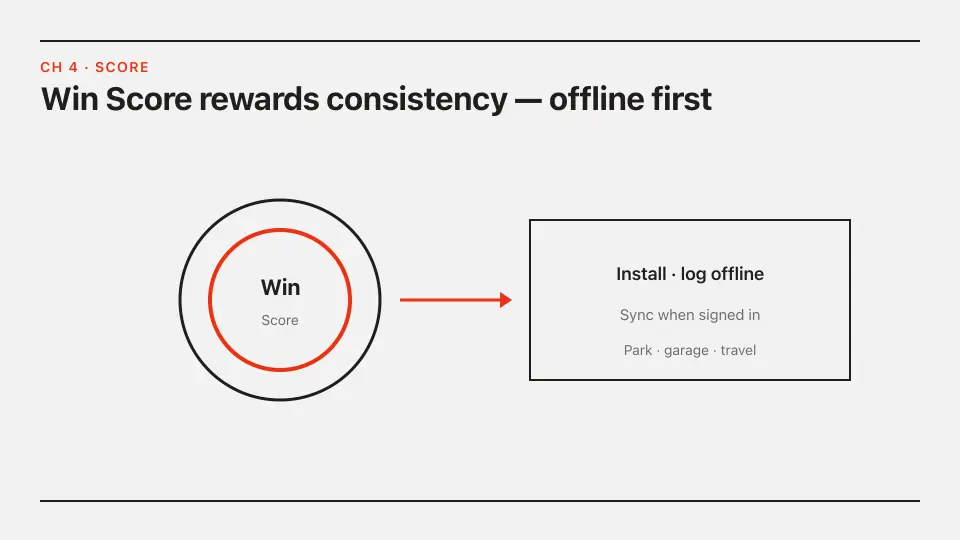
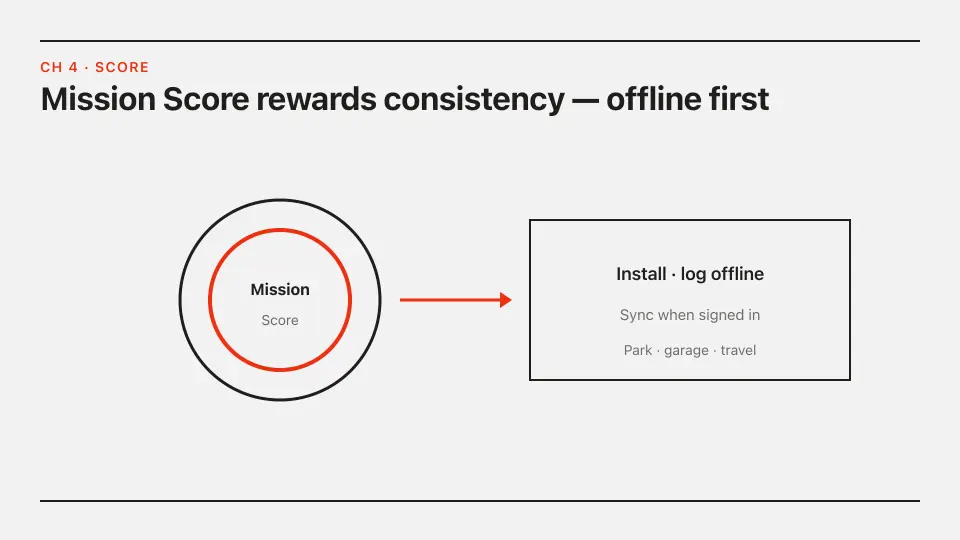
Guidebook heroes already paper; leftover glyphs (.789) [skip vercel]
H0-6 palette was already .268. Remint Win Score painted into two
figures. Do not update visual snapshots.

Excellence-Override: guidebook hero leftover Mission Score glyphs

Changed region(s): [[0.0312, 0.1481, 0.8125, 0.2074], [0.25, 0.5037, 0.3125, 0.563]]

diff --git a/src/lib/buildInfo.ts b/src/lib/buildInfo.ts
@@ -1,5 +1,5 @@
-/** Shown on Profile so testers can confirm the deployed build. Bump when shipping UI to master. `.788` Mission Score copy. */
-export const APP_BUILD_LABEL = "2026.07-unified.788";
+/** Shown on Profile so testers can confirm the deployed build. Bump when shipping UI to master. `.789` guidebook heroes. */
+export const APP_BUILD_LABEL = "2026.07-unified.789";
 
 /**
  * Semver for athletes. Distinct from `APP_BUILD_LABEL`, which `/api/health`

diff --git a/src/lib/missionScoreCopy.test.ts b/src/lib/missionScoreCopy.test.ts
@@ -48,6 +48,7 @@ test('athlete copy does not say Win Score', () => {
       if (rel.endsWith('.test.ts') || rel.endsWith('.routetest.ts')) return false;
       return /\.(ts|tsx|js|mjs)$/.test(rel);
     }),
+    ...leftover('scripts', (rel) => /generate-.*\.mjs$/.test(rel)),
     ...leftover('public/locales', (rel) => rel.endsWith('.json')),
   ];
   assert.deepEqual(

diff --git a/LOG.md b/LOG.md
@@ -9,7 +9,22 @@ Chronological record of shipped work. Newest first.
 Archive: [2026-06 → 2026-07-20](docs/archive/log/LOG-2026-06_to_2026-07-20.md) · [2026-07-20 tail](docs/archive/log/LOG-2026-07-20_tail.md) (incl. Accelerator sprint kit rotated 2026-07-22) · [2026-07-20 → 2026-07-29 (`.179` and earlier)](docs/archive/log/LOG-2026-07-20_to_2026-07-29.md) · [2026-07-29 → 2026-07-30 (`.180`–`.199`)](docs/archive/log/LOG-2026-07-29_to_2026-07-30.md) (both rotated 2026-07-30) · [2026-07-30 → 2026-07-31 (`.200`–`.213`)](docs/archive/log/LOG-2026-07-30_to_2026-07-31.md) (rotated 2026-08-02) · [`.247` for `.263`](docs/archive/log/LOG-hero-audit-rotate-2026-08-03.md) · [`.279`](docs/archive/log/LOG-rotate-279.md) · [`.280`](docs/archive/log/LOG-rotate-280.md) · [`.281` for `.296`](docs/archive/log/LOG-rotate-296.md) · [`.282` for `.297`](docs/archive/log/LOG-rotate-297.md) · [`.283` for `.298`](docs/archive/log/LOG-rotate-298.md) · [`.284` for `.299`](docs/archive/log/LOG-rotate-299.md) · [`.285` for `.300`](docs/archive/log/LOG-rotate-300.md) · [`.286` for `.301`](docs/archive/log/LOG-rotate-301.md) · [`.287` for `.302`](docs/archive/log/LOG-rotate-302.md) · [`.288` for `.303`](docs/archive/log/LOG-rotate-303.md) · [`.289` for `.304`](docs/archive/log/LOG-rotate-304.md) · [`.290` for `.305`](docs/archive/log/LOG-rotate-305.md) · [`.291` for `.306`](docs/archive/log/LOG-rotate-306.md) · [`.292` for `.307`](docs/archive/log/LOG-rotate-307.md) · [`.293` for `.308`](docs/archive/log/LOG-rotate-308.md) · [`.294` for `.309`](docs/archive/log/LOG-rotate-309.md) · [`.295` for `.310`](docs/archive/log/LOG-rotate-310.md) · [`.296` for `.311`](docs/archive/log/LOG-rotate-311.md) · [`.297` for `.312`](docs/archive/log/LOG-rotate-312.md) · [`.298` for `.313`](docs/archive/log/LOG-rotate-313.md) · [`.299` for `.314`](docs/archive/log/LOG-rotate-314.md) · [`.300` for `.315`](docs/archive/log/LOG-rotate-315.md). · [`.301` for `.316`](docs/archive/log/LOG-rotate-316.md). · [`.302` for `.317`](docs/archive/log/LOG-rotate-317.md). · [`.303` for `.318`](docs/archive/log/LOG-rotate-318.md). · [`.304` for `.319`](docs/archive/log/LOG-rotate-319.md). · [`.305` for `.320`](docs/archive/log/LOG-rotate-320.md). · [`.306` for `.321`](docs/archive/log/LOG-rotate-321.md). · [`.307` for `.322`](docs/archive/log/LOG-rotate-322.md). · [`.308` for `.323`](docs/archive/log/LOG-rotate-323.md). · [`.309` for `.324`](docs/archive/log/LOG-rotate-324.md). · [`.310` for `.325`](docs/archive/log/LOG-rotate-325.md). · [`.311` for `.326`](docs/archive/log/LOG-rotate-326.md). · [`.312` for `.327`](docs/archive/log/LOG-rotate-327.md). · [`.313` for `.328`](docs/archive/log/LOG-rotate-328.md). · [`.314` for `.329`](docs/archive/log/LOG-rotate-329.md). · [`.315` for `.330`](docs/archive/log/LOG-rotate-330.md). · [`.316` for `.331`](docs/archive/log/LOG-rotate-331.md). · [`.317` for `.332`](docs/archive/log/LOG-rotate-332.md). · [`.318` for `.333`](docs/archive/log/LOG-rotate-333.md). · [`.319` for `.334`](docs/archive/log/LOG-rotate-334.md). · [`.320` for `.335`](docs/archive/log/LOG-rotate-335.md). · [`.321` for `.336`](docs/archive/log/LOG-rotate-336.md). · [`.322` for `.337`](docs/archive/log/LOG-rotate-337.md). · [`.323` for `.338`](docs/archive/log/LOG-rotate-338.md). · [`.324` for `.339`](docs/archive/log/LOG-rotate-339.md). · [`.325` for `.340`](docs/archive/log/LOG-rotate-340.md). · [`.326` for `.341`](docs/archive/log/LOG-rotate-341.md). · [`.327` for `.342`](docs/archive/log/LOG-rotate-342.md). · [`.328` for `.343`](docs/archive/log/LOG-rotate-343.md). · [`.329` for `.344`](docs/archive/log/LOG-rotate-344.md). · [`.330` for `.345`](docs/archive/log/LOG-rotate-345.md). · [`.331` for `.346`](docs/archive/log/LOG-rotate-346.md). · [`.332` for `.347`](docs/archive/log/LOG-rotate-347.md). · [`.333` for `.348`](docs/archive/log/LOG-rotate-348.md). · [`.334` for `.349`](docs/archive/log/LOG-rotate-349.md). · [`.335` for `.350`](docs/archive/log/LOG-rotate-350.md). · [`.336` for `.351`](docs/archive/log/LOG-rotate-351.md). · [`.337` for `.352`](docs/archive/log/LOG-rotate-352.md). · [`.338` for `.353`](docs/archive/log/LOG-rotate-353.md). · [`.339` for `.354`](docs/archive/log/LOG-rotate-354.md). · [`.340` for `.355`](docs/archive/log/LOG-rotate-355.md). · [`.341` for `.356`](docs/archive/log/LOG-rotate-356.md). · [`.342` for `.357`](docs/archive/log/LOG-rotate-357.md). · [`.343` for `.358`](docs/archive/log/LOG-rotate-358.md). · [`.344` for `.359`](docs/archive/log/LOG-rotate-359.md). · [`.345` for `.360`](docs/archive/log/LOG-rotate-360.md). · [`.346` for `.361`](docs/archive/log/LOG-rotate-361.md). · [`.347` for `.362`](docs/archive/log/LOG-rotate-362.md). · [`.348` for `.363`](docs/archive/log/LOG-rotate-363.md). · [`.349` for `.364`](docs/archive/log/LOG-rotate-364.md). · [`.350` for `.365`](docs/archive/log/LOG-rotate-365.md). · [`.351` for `.366`](docs/archive/log/LOG-rotate-366.md). · [`.352` for `.367`](docs/archive/log/LOG-rotate-367.md). · [`.353` for `.368`](docs/archive/log/LOG-rotate-368.md). · [`.354` for `.369`](docs/archive/log/LOG-rotate-369.md). · [`.355` for `.370`](docs/archive/log/LOG-rotate-370.md). · [`.356` for `.371`](docs/archive/log/LOG-rotate-371.md). · [`.357` for `.372`](docs/archive/log/LOG-rotate-372.md). · [`.358` for `.373`](docs/archive/log/LOG-rotate-373.md). · [`.359` for `.374`](docs/archive/log/LOG-rotate-374.md). · [`.360` for `.375`](docs/archive/log/LOG-rotate-375.md). · [`.361` for `.376`](docs/archive/log/LOG-rotate-376.md). · [`.362` for `.377`](docs/archive/log/LOG-rotate-377.md). · [`.363` for `.378`](docs/archive/log/LOG-rotate-378.md). · [`.364` for `.379`](docs/archive/log/LOG-rotate-379.md). · [`.365` for `.380`](docs/archive/log/LOG-rotate-380.md). · [`.366` for `.381`](docs/archive/log/LOG-rotate-381.md). · [`.367` for `.382`](docs/archive/log/LOG-rotate-382.md). · [`.368` for `.383`](docs/archive/log/LOG-rotate-383.md). · [`.369` for `.384`](docs/archive/log/LOG-rotate-384.md). · [`.370` for `.385`](docs/archive/log/LOG-rotate-385.md). · [`.371` for `.386`](docs/archive/log/LOG-rotate-386.md). · [`.372` for `.387`](docs/archive/log/LOG-rotate-387.md). · [`.373` for `.388`](docs/archive/log/LOG-rotate-388.md). · [`.374` for `.389`](docs/archive/log/LOG-rotate-389.md). · [`.375` for `.390`](docs/archive/log/LOG-rotate-390.md). · [`.376` for `.391`](docs/archive/log/LOG-rotate-391.md). · [`.377` for `.392`](docs/archive/log/LOG-rotate-392.md). · [`.378` for `.393`](docs/archive/log/LOG-rotate-393.md). · [`.379` for `.394`](docs/archive/log/LOG-rotate-394.md). · [`.380` for `.395`](docs/archive/log/LOG-rotate-395.md). · [`.381` for `.396`](docs/archive/log/LOG-rotate-396.md). · [`.382` for `.397`](docs/archive/log/LOG-rotate-397.md). · [`.383` for `.398`](docs/archive/log/LOG-rotate-398.md). · [`.384` for `.399`](docs/archive/log/LOG-rotate-399.md). · [`.385` for `.400`](docs/archive/log/LOG-rotate-400.md). · [`.386` for `.401`](docs/archive/log/LOG-rotate-401.md). · [`.387` for `.402`](docs/archive/log/LOG-rotate-402.md). · [`.388` for `.403`](docs/archive/log/LOG-rotate-403.md). · [`.389` for `.404`](docs/archive/log/LOG-rotate-404.md). · [`.390` for `.405`](docs/archive/log/LOG-rotate-405.md). · [`.391` for `.406`](docs/archive/log/LOG-rotate-406.md). · [`.392` for `.407`](docs/archive/log/LOG-rotate-407.md). · [`.393` for `.408`](docs/archive/log/LOG-rotate-408.md). · [`.394` for `.409`](docs/archive/log/LOG-rotate-409.md). · [`.395` for `.410`](docs/archive/log/LOG-rotate-410.md). · [`.396` for `.411`](docs/archive/log/LOG-rotate-411.md). · [`.397` for `.412`](docs/archive/log/LOG-rotate-412.md). · [`.398` for `.413`](docs/archive/log/LOG-rotate-413.md). · [`.399` for `.414`](docs/archive/log/LOG-rotate-414.md). · [`.400` for `.415`](docs/archive/log/LOG-rotate-415.md). · [`.401` for `.416`](docs/archive/log/LOG-rotate-416.md). · [`.402` for `.417`](docs/archive/log/LOG-rotate-417.md). · [`.403` for `.418`](docs/archive/log/LOG-rotate-418.md). · [`.404` for `.419`](docs/archive/log/LOG-rotate-419.md). · [`.405` for `.420`](docs/archive/log/LOG-rotate-420.md). · [`.406` for `.421`](docs/archive/log/LOG-rotate-421.md). · [`.407` for `.422`](docs/archive/log/LOG-rotate-422.md). · [`.408` for `.423`](docs/archive/log/LOG-rotate-423.md). · [`.409` for `.424`](docs/archive/log/LOG-rotate-424.md). · [`.410` for `.425`](docs/archive/log/LOG-rotate-425.md). · [`.411` for `.426`](docs/archive/log/LOG-rotate-426.md). · [`.412` for `.427`](docs/archive/log/LOG-rotate-427.md). · [`.413` for `.428`](docs/archive/log/LOG-rotate-428.md). · [`.414` for `.429`](docs/archive/log/LOG-rotate-429.md). · [`.415` for `.430`](docs/archive/log/LOG-rotate-430.md). · [`.416` for `.431`](docs/archive/log/LOG-rotate-431.md). · [`.417` for `.432`](docs/archive/log/LOG-rotate-432.md). · [`.418` for `.433`](docs/archive/log/LOG-rotate-433.md). · [`.419` for `.434`](docs/archive/log/LOG-rotate-434.md). · [`.420` for `.435`](docs/archive/log/LOG-rotate-435.md). · [`.421` for `.436`](docs/archive/log/LOG-rotate-436.md). · [`.422` for `.437`](docs/archive/log/LOG-rotate-437.md). · [`.423` for `.438`](docs/archive/log/LOG-rotate-438.md). · [`.424` for `.439`](docs/archive/log/LOG-rotate-439.md). · [`.425` for `.440`](docs/archive/log/LOG-rotate-440.md). · [`.426` for `.441`](docs/archive/log/LOG-rotate-441.md). · [`.427` for `.442`](docs/archive/log/LOG-rotate-442.md). · [`.428` for `.443`](docs/archive/log/LOG-rotate-443.md). · [`.429` for `.444`](docs/archive/log/LOG-rotate-444.md). · [`.430` for `.445`](docs/archive/log/LOG-rotate-445.md). · [`.431` for `.446`](docs/archive/log/LOG-rotate-446.md). · [`.432` for `.447`](docs/archive/log/LOG-rotate-447.md). · [`.433` for `.448`](docs/archive/log/LOG-rotate-448.md). · [`.434` for `.449`](docs/archive/log/LOG-rotate-449.md). · [`.435` for `.450`](docs/archive/log/LOG-rotate-450.md). · [`.436` for `.451`](docs/archive/log/LOG-rotate-451.md). · [`.437` for `.452`](docs/archive/log/LOG-rotate-452.md). · [`.438` for `.453`](docs/archive/log/LOG-rotate-453.md). · [`.439` for `.454`](docs/archive/log/LOG-rotate-454.md). · [`.440` for `.455`](docs/archive/log/LOG-rotate-455.md). · [`.441` for `.456`](docs/archive/log/LOG-rotate-456.md). · [`.442` for `.457`](docs/archive/log/LOG-rotate-457.md). · [`.443` for `.458`](docs/archive/log/LOG-rotate-458.md). · [`.444` for `.459`](docs/archive/log/LOG-rotate-459.md). · [`.445` for `.460`](docs/archive/log/LOG-rotate-460.md). · [`.446` for `.461`](docs/archive/log/LOG-rotate-461.md). · [`.447` for `.462`](docs/archive/log/LOG-rotate-462.md). · [`.448` for `.463`](docs/archive/log/LOG-rotate-463.md). · [`.449` for `.464`](docs/archive/log/LOG-rotate-464.md). · [`.450` for `.465`](docs/archive/log/LOG-rotate-465.md). · [`.451` for `.466`](docs/archive/log/LOG-rotate-466.md). · [`.452` for `.467`](docs/archive/log/LOG-rotate-467.md). · [`.453` for `.468`](docs/archive/log/LOG-rotate-468.md). · [`.454` for `.469`](docs/archive/log/LOG-rotate-469.md). · [`.455` for `.470`](docs/archive/log/LOG-rotate-470.md). · [`.456` for `.471`](docs/archive/log/LOG-rotate-471.md). · [`.457` for `.472`](docs/archive/log/LOG-rotate-472.md). · [`.458` for `.473`](docs/archive/log/LOG-rotate-473.md). · [`.459` for `.474`](docs/archive/log/LOG-rotate-474.md). · [`.460` for `.475`](docs/archive/log/LOG-rotate-475.md). · [`.461` for `.476`](docs/archive/log/LOG-rotate-476.md). · [`.462` for `.477`](docs/archive/log/LOG-rotate-477.md). · [`.463` for `.478`](docs/archive/log/LOG-rotate-478.md). · [`.464` for `.479`](docs/archive/log/LOG-rotate-479.md). · [`.465` for `.480`](docs/archive/log/LOG-rotate-480.md). · [`.466` for `.481`](docs/archive/log/LOG-rotate-481.md). · [`.467` for `.482`](docs/archive/log/LOG-rotate-482.md). · [`.468` for `.483`](docs/archive/log/LOG-rotate-483.md). · [`.469` for `.484`](docs/archive/log/LOG-rotate-484.md). · [`.470` for `.485`](docs/archive/log/LOG-rotate-485.md). · [`.471` for `.486`](docs/archive/log/LOG-rotate-486.md). · [`.472` for `.487`](docs/archive/log/LOG-rotate-487.md). · [`.473` for `.488`](docs/archive/log/LOG-rotate-488.md). · [`.474` for `.489`](docs/archive/log/LOG-rotate-489.md). · [`.475` for `.490`](docs/archive/log/LOG-rotate-490.md). · [`.476` for `.491`](docs/archive/log/LOG-rotate-491.md). · [`.477` for `.492`](docs/archive/log/LOG-rotate-492.md). · [`.478` for `.493`](docs/archive/log/LOG-rotate-493.md). · [`.479` for `.494`](docs/archive/log/LOG-rotate-494.md). · [`.480` for `.495`](docs/archive/log/LOG-rotate-495.md). · [`.481` for `.496`](docs/archive/log/LOG-rotate-496.md). · [`.482` for `.497`](docs/archive/log/LOG-rotate-497.md). · [`.483` for `.498`](docs/archive/log/LOG-rotate-498.md). · [`.484` for `.499`](docs/archive/log/LOG-rotate-499.md). · [`.485` for `.500`](docs/archive/log/LOG-rotate-500.md). · [`.486` for `.501`](docs/archive/log/LOG-rotate-501.md). · [`.487` for `.502`](docs/archive/log/LOG-rotate-502.md). · [`.488` for `.503`](docs/archive/log/LOG-rotate-503.md). · [`.490` for `.505`](docs/archive/log/LOG-rotate-505.md). · [`.491` for `.506`](docs/archive/log/LOG-rotate-506.md). · [`.579` for `.594`](docs/archive/log/LOG-rotate-594.md). · [`.580` for `.595`](docs/archive/log/LOG-rotate-595.md).
 
 
---- · [`.492` for `.507`](docs/archive/log/LOG-rotate-507.md). · [`.493` for `.508`](docs/archive/log/LOG-rotate-508.md). · [`.494` for `.509`](docs/archive/log/LOG-rotate-509.md). · [`.495` for `.510`](docs/archive/log/LOG-rotate-510.md). · [`.496` for `.511`](docs/archive/log/LOG-rotate-511.md). · [`.497` for `.512`](docs/archive/log/LOG-rotate-512.md). · [`.498` for `.513`](docs/archive/log/LOG-rotate-513.md). · [`.499` for `.514`](docs/archive/log/LOG-rotate-514.md). · [`.500` for `.515`](docs/archive/log/LOG-rotate-515.md). · [`.501` for `.516`](docs/archive/log/LOG-rotate-516.md). · [`.502` for `.517`](docs/archive/log/LOG-rotate-517.md). · [`.503` for `.518`](docs/archive/log/LOG-rotate-518.md). · [`.504` for `.519`](docs/archive/log/LOG-rotate-519.md). · [`.505` for `.520`](docs/archive/log/LOG-rotate-520.md). · [`.506` for `.521`](docs/archive/log/LOG-rotate-521.md). · [`.507` for `.522`](docs/archive/log/LOG-rotate-522.md). · [`.508` for `.523`](docs/archive/log/LOG-rotate-523.md). · [`.509` for `.524`](docs/archive/log/LOG-rotate-524.md). · [`.510` for `.525`](docs/archive/log/LOG-rotate-525.md). · [`.511` for `.526`](docs/archive/log/LOG-rotate-526.md). · [`.512` for `.527`](docs/archive/log/LOG-rotate-527.md). · [`.513` for `.528`](docs/archive/log/LOG-rotate-528.md). · [`.514` for `.529`](docs/archive/log/LOG-rotate-529.md). · [`.515` for `.530`](docs/archive/log/LOG-rotate-530.md). · [`.516` for `.531`](docs/archive/log/LOG-rotate-531.md). · [`.517` for `.532`](docs/archive/log/LOG-rotate-532.md). · [`.518` for `.533`](docs/archive/log/LOG-rotate-533.md). · [`.519` for `.534`](docs/archive/log/LOG-rotate-534.md). · [`.520` for `.535`](docs/archive/log/LOG-rotate-535.md). · [`.521` for `.536`](docs/archive/log/LOG-rotate-536.md). · [`.522` for `.537`](docs/archive/log/LOG-rotate-537.md). · [`.523` for `.538`](docs/archive/log/LOG-rotate-538.md). · [`.524` for `.539`](docs/archive/log/LOG-rotate-539.md). · [`.525` for `.540`](docs/archive/log/LOG-rotate-540.md). · [`.526` for `.541`](docs/archive/log/LOG-rotate-541.md). · [`.527` for `.542`](docs/archive/log/LOG-rotate-542.md). · [`.528` for `.543`](docs/archive/log/LOG-rotate-543.md). · [`.529` for `.544`](docs/archive/log/LOG-rotate-544.md). · [`.530` for `.545`](docs/archive/log/LOG-rotate-545.md). · [`.531` for `.546`](docs/archive/log/LOG-rotate-546.md). · [`.532` for `.547`](docs/archive/log/LOG-rotate-547.md). · [`.533` for `.548`](docs/archive/log/LOG-rotate-548.md). · [`.534` for `.549`](docs/archive/log/LOG-rotate-549.md). · [`.535` for `.550`](docs/archive/log/LOG-rotate-550.md). · [`.536` for `.551`](docs/archive/log/LOG-rotate-551.md). · [`.537` for `.552`](docs/archive/log/LOG-rotate-552.md). · [`.538` for `.553`](docs/archive/log/LOG-rotate-553.md). · [`.539` for `.554`](docs/archive/log/LOG-rotate-554.md). · [`.540` for `.555`](docs/archive/log/LOG-rotate-555.md). · [`.541` for `.556`](docs/archive/log/LOG-rotate-556.md). · [`.542` for `.557`](docs/archive/log/LOG-rotate-557.md). · [`.543` for `.558`](docs/archive/log/LOG-rotate-558.md). · [`.544` for `.559`](docs/archive/log/LOG-rotate-559.md). · [`.545` for `.560`](docs/archive/log/LOG-rotate-560.md). · [`.546` for `.561`](docs/archive/log/LOG-rotate-561.md). · [`.547` for `.562`](docs/archive/log/LOG-rotate-562.md). · [`.548` for `.563`](docs/archive/log/LOG-rotate-563.md). · [`.549` for `.564`](docs/archive/log/LOG-rotate-564.md). · [`.550` for `.565`](docs/archive/log/LOG-rotate-565.md). · [`.551` for `.566`](docs/archive/log/LOG-rotate-566.md). · [`.552` for `.567`](docs/archive/log/LOG-rotate-567.md). · [`.553` for `.568`](docs/archive/log/LOG-rotate-568.md). · [`.554` for `.569`](docs/archive/log/LOG-rotate-569.md). · [`.555` for `.570`](docs/archive/log/LOG-rotate-570.md). · [`.556` for `.571`](docs/archive/log/LOG-rotate-571.md). · [`.557` for `.572`](docs/archive/log/LOG-rotate-572.md). · [`.558` for `.573`](docs/archive/log/LOG-rotate-573.md). · [`.559` for `.574`](docs/archive/log/LOG-rotate-574.md). · [`.560` for `.575`](docs/archive/log/LOG-rotate-575.md). · [`.561` for `.576`](docs/archive/log/LOG-rotate-576.md). · [`.562` for `.577`](docs/archive/log/LOG-rotate-577.md). · [`.563` for `.578`](docs/archive/log/LOG-rotate-578.md). · [`.564` for `.579`](docs/archive/log/LOG-rotate-579.md). · [`.565` for `.580`](docs/archive/log/LOG-rotate-580.md). · [`.566` for `.581`](docs/archive/log/LOG-rotate-581.md). · [`.567` for `.582`](docs/archive/log/LOG-rotate-582.md). · [`.568` for `.583`](docs/archive/log/LOG-rotate-583.md). · [`.569` for `.584`](docs/archive/log/LOG-rotate-584.md). · [`.570` for `.585`](docs/archive/log/LOG-rotate-585.md). · [`.571` for `.586`](docs/archive/log/LOG-rotate-586.md). · [`.572` for `.587`](docs/archive/log/LOG-rotate-587.md). · [`.573` for `.588`](docs/archive/log/LOG-rotate-588.md). · [`.574` for `.589`](docs/archive/log/LOG-rotate-589.md). · [`.575` for `.590`](docs/archive/log/LOG-rotate-590.md). · [`.576` for `.591`](docs/archive/log/LOG-rotate-591.md). · [`.577` for `.592`](docs/archive/log/LOG-rotate-592.md). · [`.578` for `.593`](docs/archive/log/LOG-rotate-593.md). · [`.581` for `.596`](docs/archive/log/LOG-rotate-596.md). · [`.582` for `.597`](docs/archive/log/LOG-rotate-597.md). · [`.583` for `.598`](docs/archive/log/LOG-rotate-598.md). · [`.584` for `.599`](docs/archive/log/LOG-rotate-599.md). · [`.585` for `.600`](docs/archive/log/LOG-rotate-600.md). · [`.586` for `.601`](docs/archive/log/LOG-rotate-601.md). · [`.587` for `.602`](docs/archive/log/LOG-rotate-602.md). · [`.588` for `.603`](docs/archive/log/LOG-rotate-603.md). · [`.590` for `.606`](docs/archive/log/LOG-rotate-606.md). · [`.596` for `.612`](docs/archive/log/LOG-rotate-612.md). · [`.597` for `.613`](docs/archive/log/LOG-rotate-613.md). · [`.599` for `.614`](docs/archive/log/LOG-rotate-614.md). · [`.600` for `.615`](docs/archive/log/LOG-rotate-615.md). · [`.601` for `.616`](docs/archive/log/LOG-rotate-616.md). · [`.602` for `.617`](docs/archive/log/LOG-rotate-617.md). · [`.603` for `.618`](docs/archive/log/LOG-rotate-618.md). · [`.604` for `.619`](docs/archive/log/LOG-rotate-619.md). · [`.655` for `.670`](docs/archive/log/LOG-rotate-655-for-670.md). · [`.656` for `.679`](docs/archive/log/LOG-rotate-656-for-679.md). · [`.657` for `.680`](docs/archive/log/LOG-rotate-657-for-680.md). · [`.658` for `.684`](docs/archive/log/LOG-rotate-658-for-684.md). · [`.659` for `.685`](docs/archive/log/LOG-rotate-659-for-685.md). · [`.660` for `.689`](docs/archive/log/LOG-rotate-660-for-689.md). · [`.661` for `.690`](docs/archive/log/LOG-rotate-661-for-690.md). · [`.662` for `.691`](docs/archive/log/LOG-rotate-662-for-691.md). · [`.663` for `.692`](docs/archive/log/LOG-rotate-663-for-692.md). · [`.664` for `.693`](docs/archive/log/LOG-rotate-664-for-693.md). · [`.665` for `.694`](docs/archive/log/LOG-rotate-665-for-694.md). · [`.666` for `.695`](docs/archive/log/LOG-rotate-666-for-695.md). · [`.667` for `.696`](docs/archive/log/LOG-rotate-667-for-696.md). · [`.668` for `.697`](docs/archive/log/LOG-rotate-668-for-697.md). · [`.669` for `.714`](docs/archive/log/LOG-rotate-669-for-714.md). · [`.669` for `.743`](docs/archive/log/LOG-rotate-669-for-743.md). · [`.670` for `.743`](docs/archive/log/LOG-rotate-670-for-743.md). · [`.669` for `.744`](docs/archive/log/LOG-rotate-669-for-744.md). · [`.679` for `.744`](docs/archive/log/LOG-rotate-679-for-744.md). · [`.680` for `.745`](docs/archive/log/LOG-rotate-680-for-745.md). · [`.684` for `.746`](docs/archive/log/LOG-rotate-684-for-746.md). · [`.750` for `.765`](docs/archive/log/LOG-rotate-750-for-765.md). · [`.753` for `.768`](docs/archive/log/LOG-rotate-753-for-768.md). · [`.762` for `.777`](docs/archive/log/LOG-rotate-762-for-777.md). · [`.765` for `.780`](docs/archive/log/LOG-rotate-765-for-780.md). · [`.766` for `.781`](docs/archive/log/LOG-rotate-766-for-781.md). · [`.767` for form-object-kit](docs/archive/log/LOG-rotate-767-for-form-object-kit.md). · [`.768` for `.782`](docs/archive/log/LOG-rotate-768-for-782.md). · [`.769` for `.783`](docs/archive/log/LOG-rotate-769-for-783.md). · [`.770` for `.784`](docs/archive/log/LOG-rotate-770-for-784.md). · [`.771` for `.785`](docs/archive/log/LOG-rotate-771-for-785.md). · [`.772` for `.786`](docs/archive/log/LOG-rotate-772-for-786.md). · [`.773` for `.787`](docs/archive/log/LOG-rotate-773-for-787.md). · [`.774` for `.788`](docs/archive/log/LOG-rotate-774-for-788.md).
+--- · [`.492` for `.507`](docs/archive/log/LOG-rotate-507.md). · [`.493` for `.508`](docs/archive/log/LOG-rotate-508.md). · [`.494` for `.509`](docs/archive/log/LOG-rotate-509.md). · [`.495` for `.510`](docs/archive/log/LOG-rotate-510.md). · [`.496` for `.511`](docs/archive/log/LOG-rotate-511.md). · [`.497` for `.512`](docs/archive/log/LOG-rotate-512.md). · [`.498` for `.513`](docs/archive/log/LOG-rotate-513.md). · [`.499` for `.514`](docs/archive/log/LOG-rotate-514.md). · [`.500` for `.515`](docs/archive/log/LOG-rotate-515.md). · [`.501` for `.516`](docs/archive/log/LOG-rotate-516.md). · [`.502` for `.517`](docs/archive/log/LOG-rotate-517.md). · [`.503` for `.518`](docs/archive/log/LOG-rotate-518.md). · [`.504` for `.519`](docs/archive/log/LOG-rotate-519.md). · [`.505` for `.520`](docs/archive/log/LOG-rotate-520.md). · [`.506` for `.521`](docs/archive/log/LOG-rotate-521.md). · [`.507` for `.522`](docs/archive/log/LOG-rotate-522.md). · [`.508` for `.523`](docs/archive/log/LOG-rotate-523.md). · [`.509` for `.524`](docs/archive/log/LOG-rotate-524.md). · [`.510` for `.525`](docs/archive/log/LOG-rotate-525.md). · [`.511` for `.526`](docs/archive/log/LOG-rotate-526.md). · [`.512` for `.527`](docs/archive/log/LOG-rotate-527.md). · [`.513` for `.528`](docs/archive/log/LOG-rotate-528.md). · [`.514` for `.529`](docs/archive/log/LOG-rotate-529.md). · [`.515` for `.530`](docs/archive/log/LOG-rotate-530.md). · [`.516` for `.531`](docs/archive/log/LOG-rotate-531.md). · [`.517` for `.532`](docs/archive/log/LOG-rotate-532.md). · [`.518` for `.533`](docs/archive/log/LOG-rotate-533.md). · [`.519` for `.534`](docs/archive/log/LOG-rotate-534.md). · [`.520` for `.535`](docs/archive/log/LOG-rotate-535.md). · [`.521` for `.536`](docs/archive/log/LOG-rotate-536.md). · [`.522` for `.537`](docs/archive/log/LOG-rotate-537.md). · [`.523` for `.538`](docs/archive/log/LOG-rotate-538.md). · [`.524` for `.539`](docs/archive/log/LOG-rotate-539.md). · [`.525` for `.540`](docs/archive/log/LOG-rotate-540.md). · [`.526` for `.541`](docs/archive/log/LOG-rotate-541.md). · [`.527` for `.542`](docs/archive/log/LOG-rotate-542.md). · [`.528` for `.543`](docs/archive/log/LOG-rotate-543.md). · [`.529` for `.544`](docs/archive/log/LOG-rotate-544.md). · [`.530` for `.545`](docs/archive/log/LOG-rotate-545.md). · [`.531` for `.546`](docs/archive/log/LOG-rotate-546.md). · [`.532` for `.547`](docs/archive/log/LOG-rotate-547.md). · [`.533` for `.548`](docs/archive/log/LOG-rotate-548.md). · [`.534` for `.549`](docs/archive/log/LOG-rotate-549.md). · [`.535` for `.550`](docs/archive/log/LOG-rotate-550.md). · [`.536` for `.551`](docs/archive/log/LOG-rotate-551.md). · [`.537` for `.552`](docs/archive/log/LOG-rotate-552.md). · [`.538` for `.553`](docs/archive/log/LOG-rotate-553.md). · [`.539` for `.554`](docs/archive/log/LOG-rotate-554.md). · [`.540` for `.555`](docs/archive/log/LOG-rotate-555.md). · [`.541` for `.556`](docs/archive/log/LOG-rotate-556.md). · [`.542` for `.557`](docs/archive/log/LOG-rotate-557.md). · [`.543` for `.558`](docs/archive/log/LOG-rotate-558.md). · [`.544` for `.559`](docs/archive/log/LOG-rotate-559.md). · [`.545` for `.560`](docs/archive/log/LOG-rotate-560.md). · [`.546` for `.561`](docs/archive/log/LOG-rotate-561.md). · [`.547` for `.562`](docs/archive/log/LOG-rotate-562.md). · [`.548` for `.563`](docs/archive/log/LOG-rotate-563.md). · [`.549` for `.564`](docs/archive/log/LOG-rotate-564.md). · [`.550` for `.565`](docs/archive/log/LOG-rotate-565.md). · [`.551` for `.566`](docs/archive/log/LOG-rotate-566.md). · [`.552` for `.567`](docs/archive/log/LOG-rotate-567.md). · [`.553` for `.568`](docs/archive/log/LOG-rotate-568.md). · [`.554` for `.569`](docs/archive/log/LOG-rotate-569.md). · [`.555` for `.570`](docs/archive/log/LOG-rotate-570.md). · [`.556` for `.571`](docs/archive/log/LOG-rotate-571.md). · [`.557` for `.572`](docs/archive/log/LOG-rotate-572.md). · [`.558` for `.573`](docs/archive/log/LOG-rotate-573.md). · [`.559` for `.574`](docs/archive/log/LOG-rotate-574.md). · [`.560` for `.575`](docs/archive/log/LOG-rotate-575.md). · [`.561` for `.576`](docs/archive/log/LOG-rotate-576.md). · [`.562` for `.577`](docs/archive/log/LOG-rotate-577.md). · [`.563` for `.578`](docs/archive/log/LOG-rotate-578.md). · [`.564` for `.579`](docs/archive/log/LOG-rotate-579.md). · [`.565` for `.580`](docs/archive/log/LOG-rotate-580.md). · [`.566` for `.581`](docs/archive/log/LOG-rotate-581.md). · [`.567` for `.582`](docs/archive/log/LOG-rotate-582.md). · [`.568` for `.583`](docs/archive/log/LOG-rotate-583.md). · [`.569` for `.584`](docs/archive/log/LOG-rotate-584.md). · [`.570` for `.585`](docs/archive/log/LOG-rotate-585.md). · [`.571` for `.586`](docs/archive/log/LOG-rotate-586.md). · [`.572` for `.587`](docs/archive/log/LOG-rotate-587.md). · [`.573` for `.588`](docs/archive/log/LOG-rotate-588.md). · [`.574` for `.589`](docs/archive/log/LOG-rotate-589.md). · [`.575` for `.590`](docs/archive/log/LOG-rotate-590.md). · [`.576` for `.591`](docs/archive/log/LOG-rotate-591.md). · [`.577` for `.592`](docs/archive/log/LOG-rotate-592.md). · [`.578` for `.593`](docs/archive/log/LOG-rotate-593.md). · [`.581` for `.596`](docs/archive/log/LOG-rotate-596.md). · [`.582` for `.597`](docs/archive/log/LOG-rotate-597.md). · [`.583` for `.598`](docs/archive/log/LOG-rotate-598.md). · [`.584` for `.599`](docs/archive/log/LOG-rotate-599.md). · [`.585` for `.600`](docs/archive/log/LOG-rotate-600.md). · [`.586` for `.601`](docs/archive/log/LOG-rotate-601.md). · [`.587` for `.602`](docs/archive/log/LOG-rotate-602.md). · [`.588` for `.603`](docs/archive/log/LOG-rotate-603.md). · [`.590` for `.606`](docs/archive/log/LOG-rotate-606.md). · [`.596` for `.612`](docs/archive/log/LOG-rotate-612.md). · [`.597` for `.613`](docs/archive/log/LOG-rotate-613.md). · [`.599` for `.614`](docs/archive/log/LOG-rotate-614.md). · [`.600` for `.615`](docs/archive/log/LOG-rotate-615.md). · [`.601` for `.616`](docs/archive/log/LOG-rotate-616.md). · [`.602` for `.617`](docs/archive/log/LOG-rotate-617.md). · [`.603` for `.618`](docs/archive/log/LOG-rotate-618.md). · [`.604` for `.619`](docs/archive/log/LOG-rotate-619.md). · [`.655` for `.670`](docs/archive/log/LOG-rotate-655-for-670.md). · [`.656` for `.679`](docs/archive/log/LOG-rotate-656-for-679.md). · [`.657` for `.680`](docs/archive/log/LOG-rotate-657-for-680.md). · [`.658` for `.684`](docs/archive/log/LOG-rotate-658-for-684.md). · [`.659` for `.685`](docs/archive/log/LOG-rotate-659-for-685.md). · [`.660` for `.689`](docs/archive/log/LOG-rotate-660-for-689.md). · [`.661` for `.690`](docs/archive/log/LOG-rotate-661-for-690.md). · [`.662` for `.691`](docs/archive/log/LOG-rotate-662-for-691.md). · [`.663` for `.692`](docs/archive/log/LOG-rotate-663-for-692.md). · [`.664` for `.693`](docs/archive/log/LOG-rotate-664-for-693.md). · [`.665` for `.694`](docs/archive/log/LOG-rotate-665-for-694.md). · [`.666` for `.695`](docs/archive/log/LOG-rotate-666-for-695.md). · [`.667` for `.696`](docs/archive/log/LOG-rotate-667-for-696.md). · [`.668` for `.697`](docs/archive/log/LOG-rotate-668-for-697.md). · [`.669` for `.714`](docs/archive/log/LOG-rotate-669-for-714.md). · [`.669` for `.743`](docs/archive/log/LOG-rotate-669-for-743.md). · [`.670` for `.743`](docs/archive/log/LOG-rotate-670-for-743.md). · [`.669` for `.744`](docs/archive/log/LOG-rotate-669-for-744.md). · [`.679` for `.744`](docs/archive/log/LOG-rotate-679-for-744.md). · [`.680` for `.745`](docs/archive/log/LOG-rotate-680-for-745.md). · [`.684` for `.746`](docs/archive/log/LOG-rotate-684-for-746.md). · [`.750` for `.765`](docs/archive/log/LOG-rotate-750-for-765.md). · [`.753` for `.768`](docs/archive/log/LOG-rotate-753-for-768.md). · [`.762` for `.777`](docs/archive/log/LOG-rotate-762-for-777.md). · [`.765` for `.780`](docs/archive/log/LOG-rotate-765-for-780.md). · [`.766` for `.781`](docs/archive/log/LOG-rotate-766-for-781.md). · [`.767` for form-object-kit](docs/archive/log/LOG-rotate-767-for-form-object-kit.md). · [`.768` for `.782`](docs/archive/log/LOG-rotate-768-for-782.md). · [`.769` for `.783`](docs/archive/log/LOG-rotate-769-for-783.md). · [`.770` for `.784`](docs/archive/log/LOG-rotate-770-for-784.md). · [`.771` for `.785`](docs/archive/log/LOG-rotate-771-for-785.md). · [`.772` for `.786`](docs/archive/log/LOG-rotate-772-for-786.md). · [`.773` for `.787`](docs/archive/log/LOG-rotate-773-for-787.md). · [`.774` for `.788`](docs/archive/log/LOG-rotate-774-for-788.md). · [`.775` for `.789`](docs/archive/log/LOG-rotate-775-for-789.md).
+
+## 2026-08-14 — Guidebook heroes already paper (`.789`)
+
+H0-6 asked to re-ink navy/teal chapter heroes. `.268` already did.
+Every `public/learn/*.webp` measures 0–1% ink with brand red. The
+remaining defect was leftover “Win Score” painted into two figures.
+
+**Ship:** remint `getting-started-mw-hero` and `win-score-offline`.
+Palette guard unchanged. No `--update-snapshots`. No `PRIVATE_MODE` flip.
+
+Label `.789` (onto master `.788`).
+
+Excellence-Override: guidebook hero leftover Mission Score glyphs
+
+Rotated LOG oldest → [docs/archive/log/LOG-rotate-775-for-789.md](docs/archive/log/LOG-rotate-775-for-789.md).
 
 ## 2026-08-14 — Mission Score leftover copy (`.788`)
 
@@ -273,26 +288,4 @@ Excellence-Override below.
 Excellence-Override: Mission Server durable rooms
 
 Rotated LOG oldest → [docs/archive/log/LOG-rotate-761-for-776.md](docs/archive/log/LOG-rotate-761-for-776.md).
-
-## 2026-08-14 — LLM daily dollar cap + lifetime Grok gate (`.775`)
-
-Request caps (60 chats/day) did not implement “never cost more than they
-paid.” Lifetime is $149 once; Grok is pay-per-token forever. Default 4.6
-reasoning is billed and not capped by `max_tokens`.
-
-**Ship:** `centsFromUsage` (provider ticks, else grok-4.6 list; reasoning =
-output). Per-identity default **15¢/day**, org breaker **$25/day**. Fail-closed
-if the store throws. `allowLlmInference` = request quota then $ cap. Chat,
-insight, voice, debrief, meal vision. Lifetime uses the same cap. Public-flip
-checklist in LAUNCH_RUNBOOK §5.
-
-Mutants: ticks ignored → list-price used; reasoning omitted → undercount; store
-throw → allow (must deny); $ cap 0 with request cap 60 → allow.
-
-Label `.775` (onto master `.774`).
-Excellence-Override below.
-
-Excellence-Override: llm spend cap
-
-Rotated LOG oldest → [docs/archive/log/LOG-rotate-760-for-775.md](docs/archive/log/LOG-rotate-760-for-775.md).
 

diff --git a/docs/GRAPH_LOOP.md b/docs/GRAPH_LOOP.md
@@ -2,7 +2,7 @@
 
 **Audience:** Founder + the next Cursor Cloud / graph agent  
 **Lane:** Engineering-Web (unless a loop says Android)  
-**Status:** ACTIVE 2026-08-14 · web `2026.07-unified.788` · Alpha 0.1.0  
+**Status:** ACTIVE 2026-08-14 · web `2026.07-unified.789` · Alpha 0.1.0  
 **Does not replace:** [ORCHESTRATION.md](../ORCHESTRATION.md) (what may be built) · [CONTEXT.md](../CONTEXT.md) `## Now` (where we are) · [vision.md](../vision.md) (constitution) · [docs/THESIS.md](THESIS.md) (wedge) · [docs/PLAN.md](PLAN.md) (phases A–I)
 
 This file is the **execution queue** for the agent graph: one concern per loop, spawn, ship, mark done, spawn the next. It is not a second status block and not a license to skip standing hard bans.
@@ -45,6 +45,7 @@ Recent turns:
 | **H0-2** | Launch env H0 vs H1 (FREE_BETA) | `.781` this PR — **done** |
 | **H0-3** | API inventory + glob guard | `.787` — **done** |
 | **H0-5** | Win Score → Mission Score leftover copy | `.788` this PR — **done** |
+| **H0-6** | Guidebook chapter heroes | `.268` already paper; leftover glyphs `.789` — **done** |
 
 ---
 
@@ -92,7 +93,7 @@ Verified in source 2026-08-14 (master `.779`). Findings with proof paths: [§ Re
 | **H0-3** | API INDEX + `docs/API.md` + PROGRAM_STATUS census | Docs match reality | `done` — `.787` |
 | **H0-4** | Public-flip checklist: `start_url` curl + SW; runbook pointers | Flip-day smoke | `done` — docs |
 | **H0-5** | “Win Score” → Mission Score leftover strings | Public copy honesty | `done` — `.788` |
-| **H0-6** | Guidebook chapter heroes still navy/emerald | Design honesty before baselines | `open` |
+| **H0-6** | Guidebook chapter heroes still navy/emerald | Design honesty before baselines | `done` — already `.268`; leftover glyphs `.789` |
 | **H0-7** | Production-stack / runbook vs CONTEXT (Upstash, `.104`) | Docs match reality | `open` |
 
 ### After H0 (orientation — not open until H0-1…H0-7 are done or `founder`)
@@ -142,7 +143,7 @@ Do not pull these forward while H0 agent loops remain `open`.
 | W5 | Form Index Wave D — next unique stills | `parked` |
 | W6 | “Win Score” leftover strings | `done` — same as H0-5 `.788` |
 | W7 | API INDEX drift | `done` — same as H0-3 `.787` |
-| W8 | Guidebook chapter heroes | `parked` — **same work as H0-6**; if you ship H0-6, mark W8 done too |
+| W8 | Guidebook chapter heroes | `done` — same as H0-6 `.268` / `.789` |
 
 ---
 
@@ -191,9 +192,9 @@ Headers on those routes already say “See: app/api/INDEX.md, docs/API.md”. Di
 
 Athlete strings say Mission Score. Keys (`landingFreeWinScore`, `winScoreSeen`) unchanged. Guard: [`src/lib/missionScoreCopy.test.ts`](../src/lib/missionScoreCopy.test.ts).
 
-### H0-6 — chapter heroes
+### H0-6 — chapter heroes (`done` · already `.268` · leftover glyphs `.789`)
 
-CONTEXT `.254`: `public/learn/*.webp` 89–99% dark with teal. `check-design-system` cannot see a `.webp`. Block visual-baseline commit of `guide-human-performance.png` until re-inked.
+Every `public/learn/*.webp` measures 0–1% ink and ≥1% brand red. Guard: [`src/lib/guidebookHeroPalette.test.ts`](../src/lib/guidebookHeroPalette.test.ts). This pass only reminted “Win Score” baked into `getting-started-mw-hero` and `win-score-offline`.
 
 ### Also true (not a loop)
 
@@ -257,9 +258,9 @@ CONTEXT `.254`: `public/learn/*.webp` 89–99% dark with teal. `check-design-sys
 
 ---
 
-## H0-6 — Guidebook chapter heroes
+## H0-6 — Guidebook chapter heroes (`done` · `.789`)
 
-**Ship:** re-ink `public/learn/*.webp` to paper/ink/poster red, or stop linking them from paper pages until they match. Eyes-on. Do not `--update-snapshots`. Mark parked W8 done.
+**Already true:** `.268` paper/ink/one-red + `check-guidebook-heroes.mjs`. All 19 `public/learn/*.webp` measure 0–1% ink. **This pass:** leftover “Win Score” glyphs in two figures. W8 marked done.
 
 ---
 
@@ -275,7 +276,7 @@ CONTEXT `.254`: `public/learn/*.webp` 89–99% dark with teal. `check-design-sys
 You are the next Mission Winning graph-loop agent.
 
 1. Read CONTEXT.md, AGENTS.md, INDEX.md, ORCHESTRATION.md, then docs/GRAPH_LOOP.md.
-2. Implement ONLY the top loop whose Status is `open` (today: H0-6 guidebook chapter heroes).
+2. Implement ONLY the top loop whose Status is `open` (today: H0-7 runbook vs CONTEXT).
 3. This session skipped Horizon W (2026-08-14). Do not unpark W0–W8. Do not write excellence status: pass.
 4. Investigate on current master before coding. If the claim is already false, mark the loop done in GRAPH_LOOP.md with proof paths and stop.
 5. One concern. One PR. [skip vercel] unless I asked for Preview.

diff --git a/CONTEXT.md b/CONTEXT.md
@@ -16,7 +16,7 @@ One screen of truth for any AI tool or human joining cold. Read this, then [AGEN
 
 ---
 
-## Now (2026-08-14 · web `2026.07-unified.788` · Android `1.24.1`)
+## Now (2026-08-14 · web `2026.07-unified.789` · Android `1.24.1`)
 
 > The ONLY "where we are" block in the repo — [ORCHESTRATION.md](ORCHESTRATION.md) points here.
 >
@@ -325,6 +325,7 @@ One screen of truth for any AI tool or human joining cold. Read this, then [AGEN
 > and `.786` dropped `.772` detail (full text remains in LOG.md / archive)
 > and `.787` dropped `.773` detail (full text remains in LOG.md / archive)
 > and `.788` dropped `.774` detail (full text remains in LOG.md / archive)
+> and `.789` dropped `.775` detail (full text remains in LOG.md / archive)
 > to [CONTEXT-now-2026-07-30.md](docs/archive/CONTEXT-now-2026-07-30.md) after this
 > block reached **79 bullets / 103KB**. A status doc that only grows stops being read.
 
@@ -346,6 +347,7 @@ One screen of truth for any AI tool or human joining cold. Read this, then [AGEN
 > | gitleaks | **green — and scanning for the first time.** It had never scanned anything: on a `pull_request` event the action lists the PR's commits, the job declared no `permissions:` block, and it 403'd (`pull_requests=read`) before opening a file. Fixed by a `permissions:` block (`.224` carrying `.255`). It scans **only the PR's own commits**, so commit `8ea3527a`'s real Solana treasury address — scrubbed from the working file, still in history — is out of its scope. That finding stands, deliberately not allowlisted; it was never what made this check red. |
 > | Privacy / security program | **Landed `.778`** — [docs/security/PROGRAM_STATUS.md](docs/security/PROGRAM_STATUS.md). Invite-bound gate, health-bucket, DSAR, territory fail-closed. OTP-without-click can leave a ghost user. Not a cert. |
 
+- **`.789`:** (`2026.07-unified.789`) **Guidebook heroes already paper** — `.268` re-ink; this pass only remints leftover “Win Score” glyphs. Palette guard already green. No `PRIVATE_MODE` flip.
 - **`.788`:** (`2026.07-unified.788`) **Mission Score copy** — leftover “Win Score” athlete strings → Mission Score. Keys unchanged. No `PRIVATE_MODE` flip.
 - **`.787`:** (`2026.07-unified.787`) **API inventory** — every `route.ts` listed in INDEX; PROGRAM_STATUS 74; glob guard. No handler change. No `PRIVATE_MODE` flip.
 - **`.786`:** (`2026.07-unified.786`) **Preview `/` is the gate teaser** — ungated Preview no longer paints cinematic open landing. Train stays public. No `PRIVATE_MODE` flip.
@@ -361,7 +363,6 @@ One screen of truth for any AI tool or human joining cold. Read this, then [AGEN
 - **`.778`:** (`2026.07-unified.778`) **Privacy/security program** — invite-bound gate, sign-out wipe, DSAR email-keyed export, territory fail-closed, blocked-signup reap. PAR-Q food-row already closed by `.777`. Not a cert. No `PRIVATE_MODE` flip.
 - **`.777`:** (`2026.07-unified.777`) **PAR-Q is coach intake** — Seven flags before first Mission Coach generate. Not a More/rail feature. Not a Fuel row. Today stays train. Logger ungated. No `PRIVATE_MODE` flip.
 - **`.776`:** (`2026.07-unified.776`) **Mission Server durable rooms** — Signed-in Garage posts ride the outbox to `social_messages`. Guests stay local. Missing table fail-opens. No Vercel sockets. No `PRIVATE_MODE` flip.
-- **`.775`:** (`2026.07-unified.775`) **LLM daily dollar cap** — 15¢/identity/day + $25 org breaker; fail-closed. Lifetime uses the same cap. LAUNCH_RUNBOOK §5. No `PRIVATE_MODE` flip.
 - **`.669`:** (`2026.07-unified.669`) **Excellence RESULT + agent stop-rule** — `excellenceGate` path policy + `check-excellence-gate` on gate/PR CI; wedge still ships while unscored.
 - **Horizon W + full-launch override (2026-08-05).** Wedge excellence still required; agents may ship rewards + full surface honesty. Fuel estimate accuracy remains.
 - **Free-first beta (~4 weeks):** LLC + EIN pending — **no Bundle UI** + **full depth unlocked**; More/rail **Pillars demoted until first workout** (F-004 / `.695`) — still no Bundle ([docs/FREE_BETA.md](docs/FREE_BETA.md)).

diff --git a/docs/archive/log/LOG-rotate-775-for-789.md b/docs/archive/log/LOG-rotate-775-for-789.md
@@ -1,0 +1,23 @@
+# Rotated from LOG.md when `.789` landed
+
+## 2026-08-14 — LLM daily dollar cap + lifetime Grok gate (`.775`)
+
+Request caps (60 chats/day) did not implement “never cost more than they
+paid.” Lifetime is $149 once; Grok is pay-per-token forever. Default 4.6
+reasoning is billed and not capped by `max_tokens`.
+
+**Ship:** `centsFromUsage` (provider ticks, else grok-4.6 list; reasoning =
+output). Per-identity default **15¢/day**, org breaker **$25/day**. Fail-closed
+if the store throws. `allowLlmInference` = request quota then $ cap. Chat,
+insight, voice, debrief, meal vision. Lifetime uses the same cap. Public-flip
+checklist in LAUNCH_RUNBOOK §5.
+
+Mutants: ticks ignored → list-price used; reasoning omitted → undercount; store
+throw → allow (must deny); $ cap 0 with request cap 60 → allow.
+
+Label `.775` (onto master `.774`).
+Excellence-Override below.
+
+Excellence-Override: llm spend cap
+
+Rotated LOG oldest → [docs/archive/log/LOG-rotate-760-for-775.md](docs/archive/log/LOG-rotate-760-for-775.md).

diff --git a/docs/archive/INDEX.md b/docs/archive/INDEX.md
@@ -12,6 +12,7 @@ When adding a doc:
 
 | File | Absorbed by / note |
 |------|---------------------|
+| [log/LOG-rotate-775-for-789.md](./log/LOG-rotate-775-for-789.md) | rotated 2026-08-14 for `.789` guidebook heroes (`.775`) |
 | [log/LOG-rotate-774-for-788.md](./log/LOG-rotate-774-for-788.md) | rotated 2026-08-14 for `.788` Mission Score copy (`.774`) |
 | [log/LOG-rotate-773-for-787.md](./log/LOG-rotate-773-for-787.md) | rotated 2026-08-14 for `.787` API inventory (`.773`) |
 | [log/LOG-rotate-772-for-786.md](./log/LOG-rotate-772-for-786.md) | rotated 2026-08-14 for `.786` Preview homepage teaser (`.772`) |

diff --git a/public/learn/README.md b/public/learn/README.md
@@ -24,7 +24,7 @@ Chapter / section imagery for Beyond the Basics. Playbook: [docs/MEDIA_SYSTEM.md
 | `protein-briefing.webp` | Ch5 macros |
 | `retest-cadence.webp` | Ch6 benchmarks |
 | `six-pillars.webp` | Ch4 pillars |
-| `win-score-offline.webp` | Ch4 Win Score |
+| `win-score-offline.webp` | Ch4 Mission Score |
 | `meal-timing.webp` | Ch5 meal timing |
 | `parq-screen.webp` | Ch6 PAR-Q |
 | `adjust-plan.webp` | Ch6 adjust plan |
